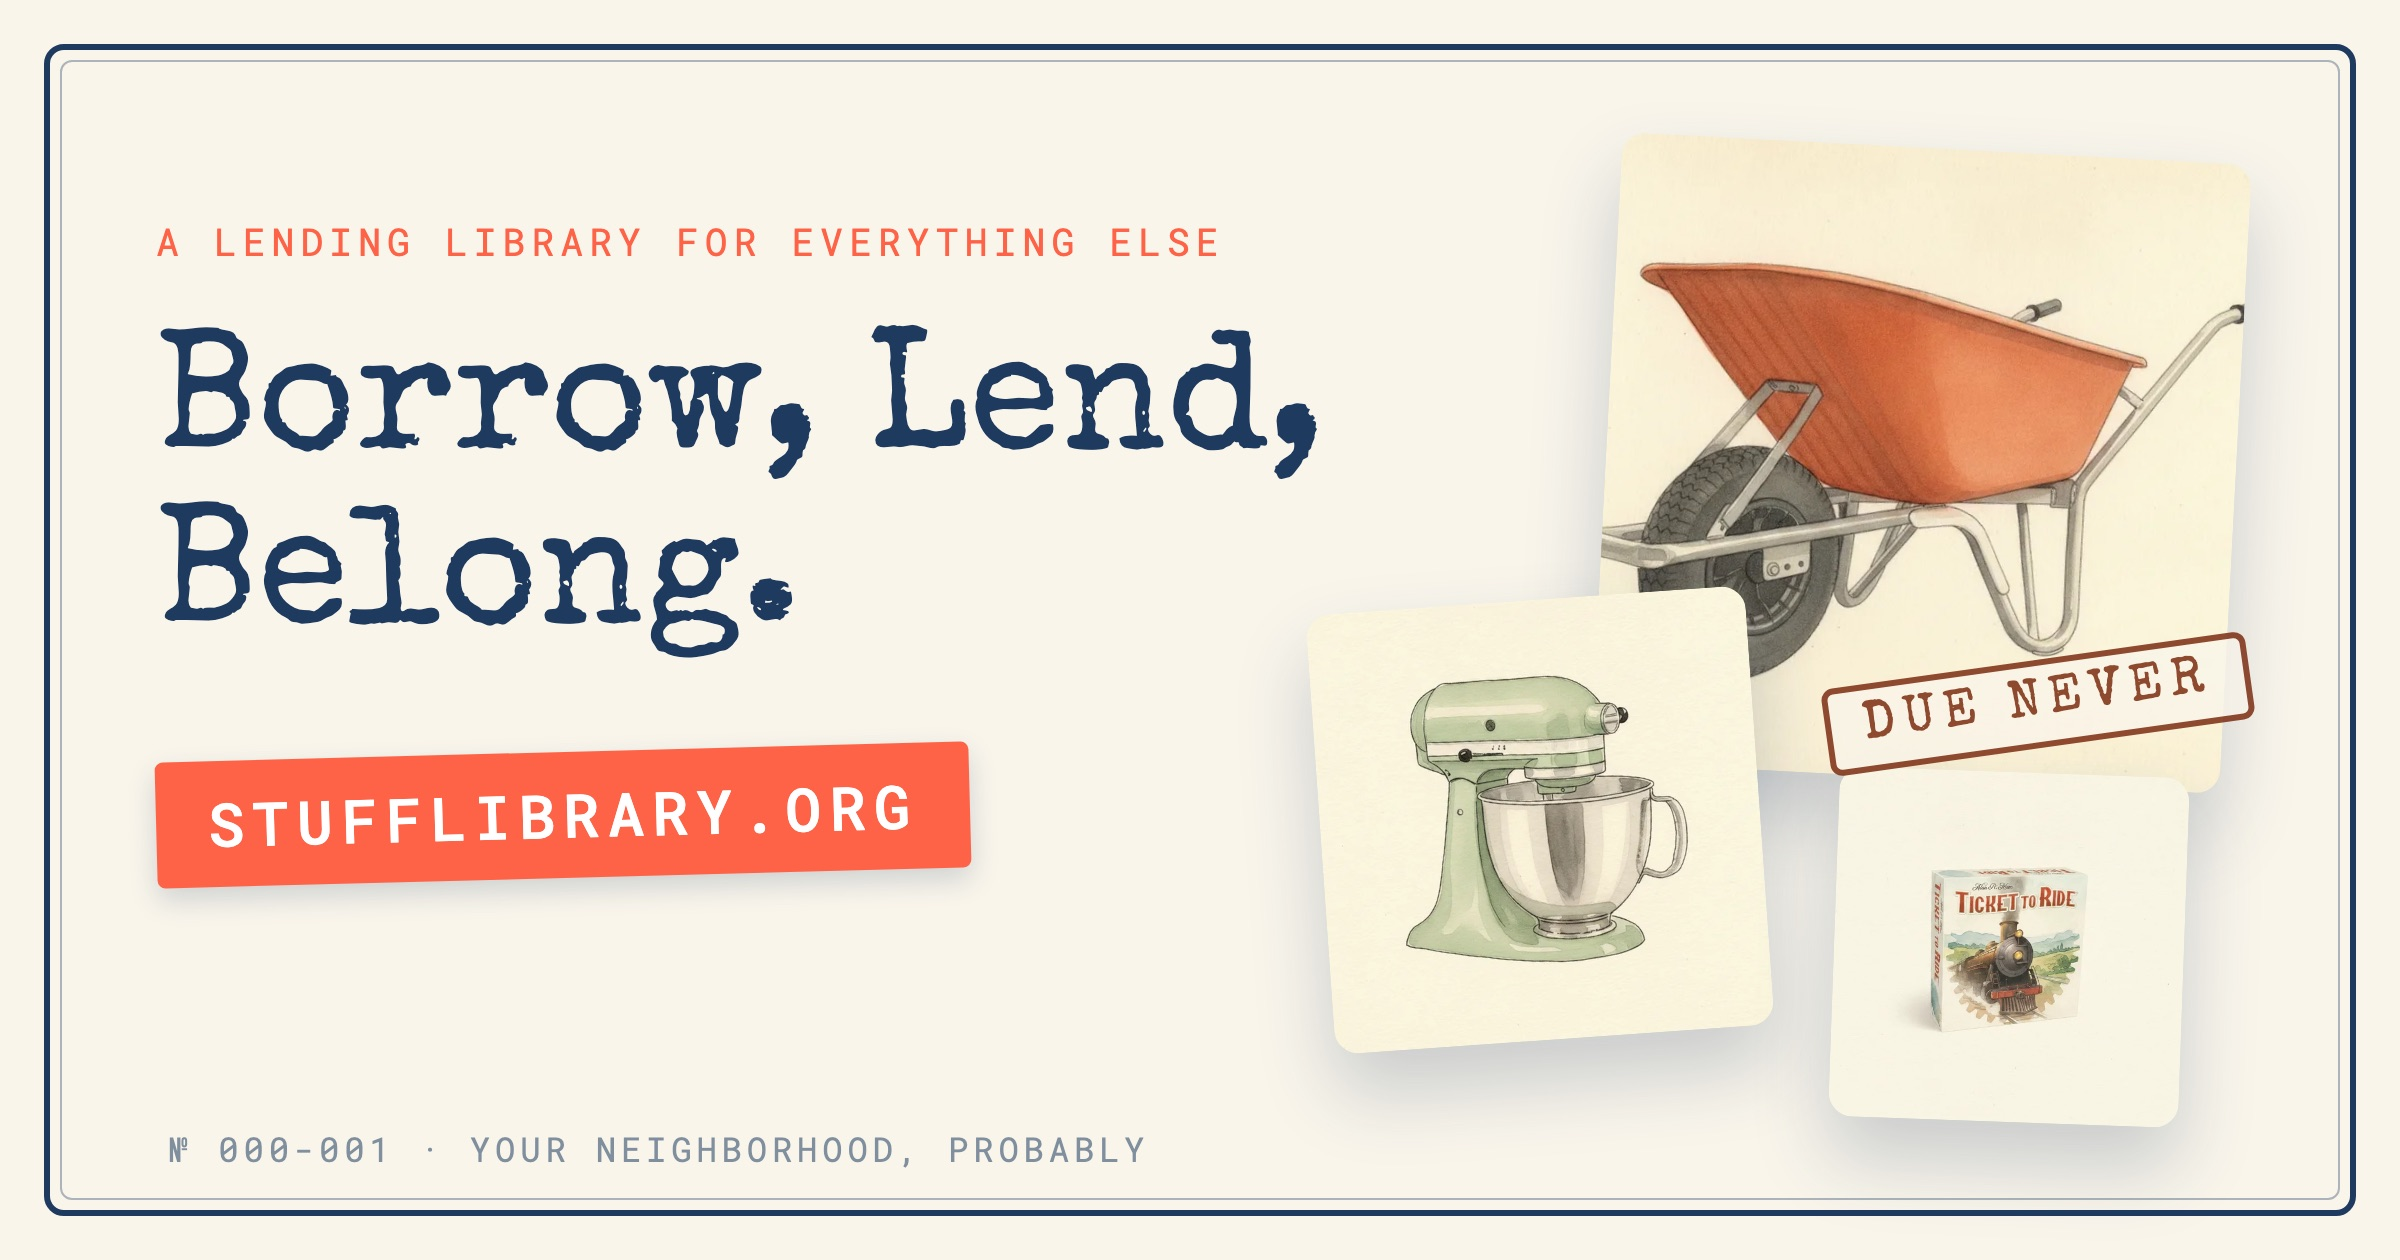
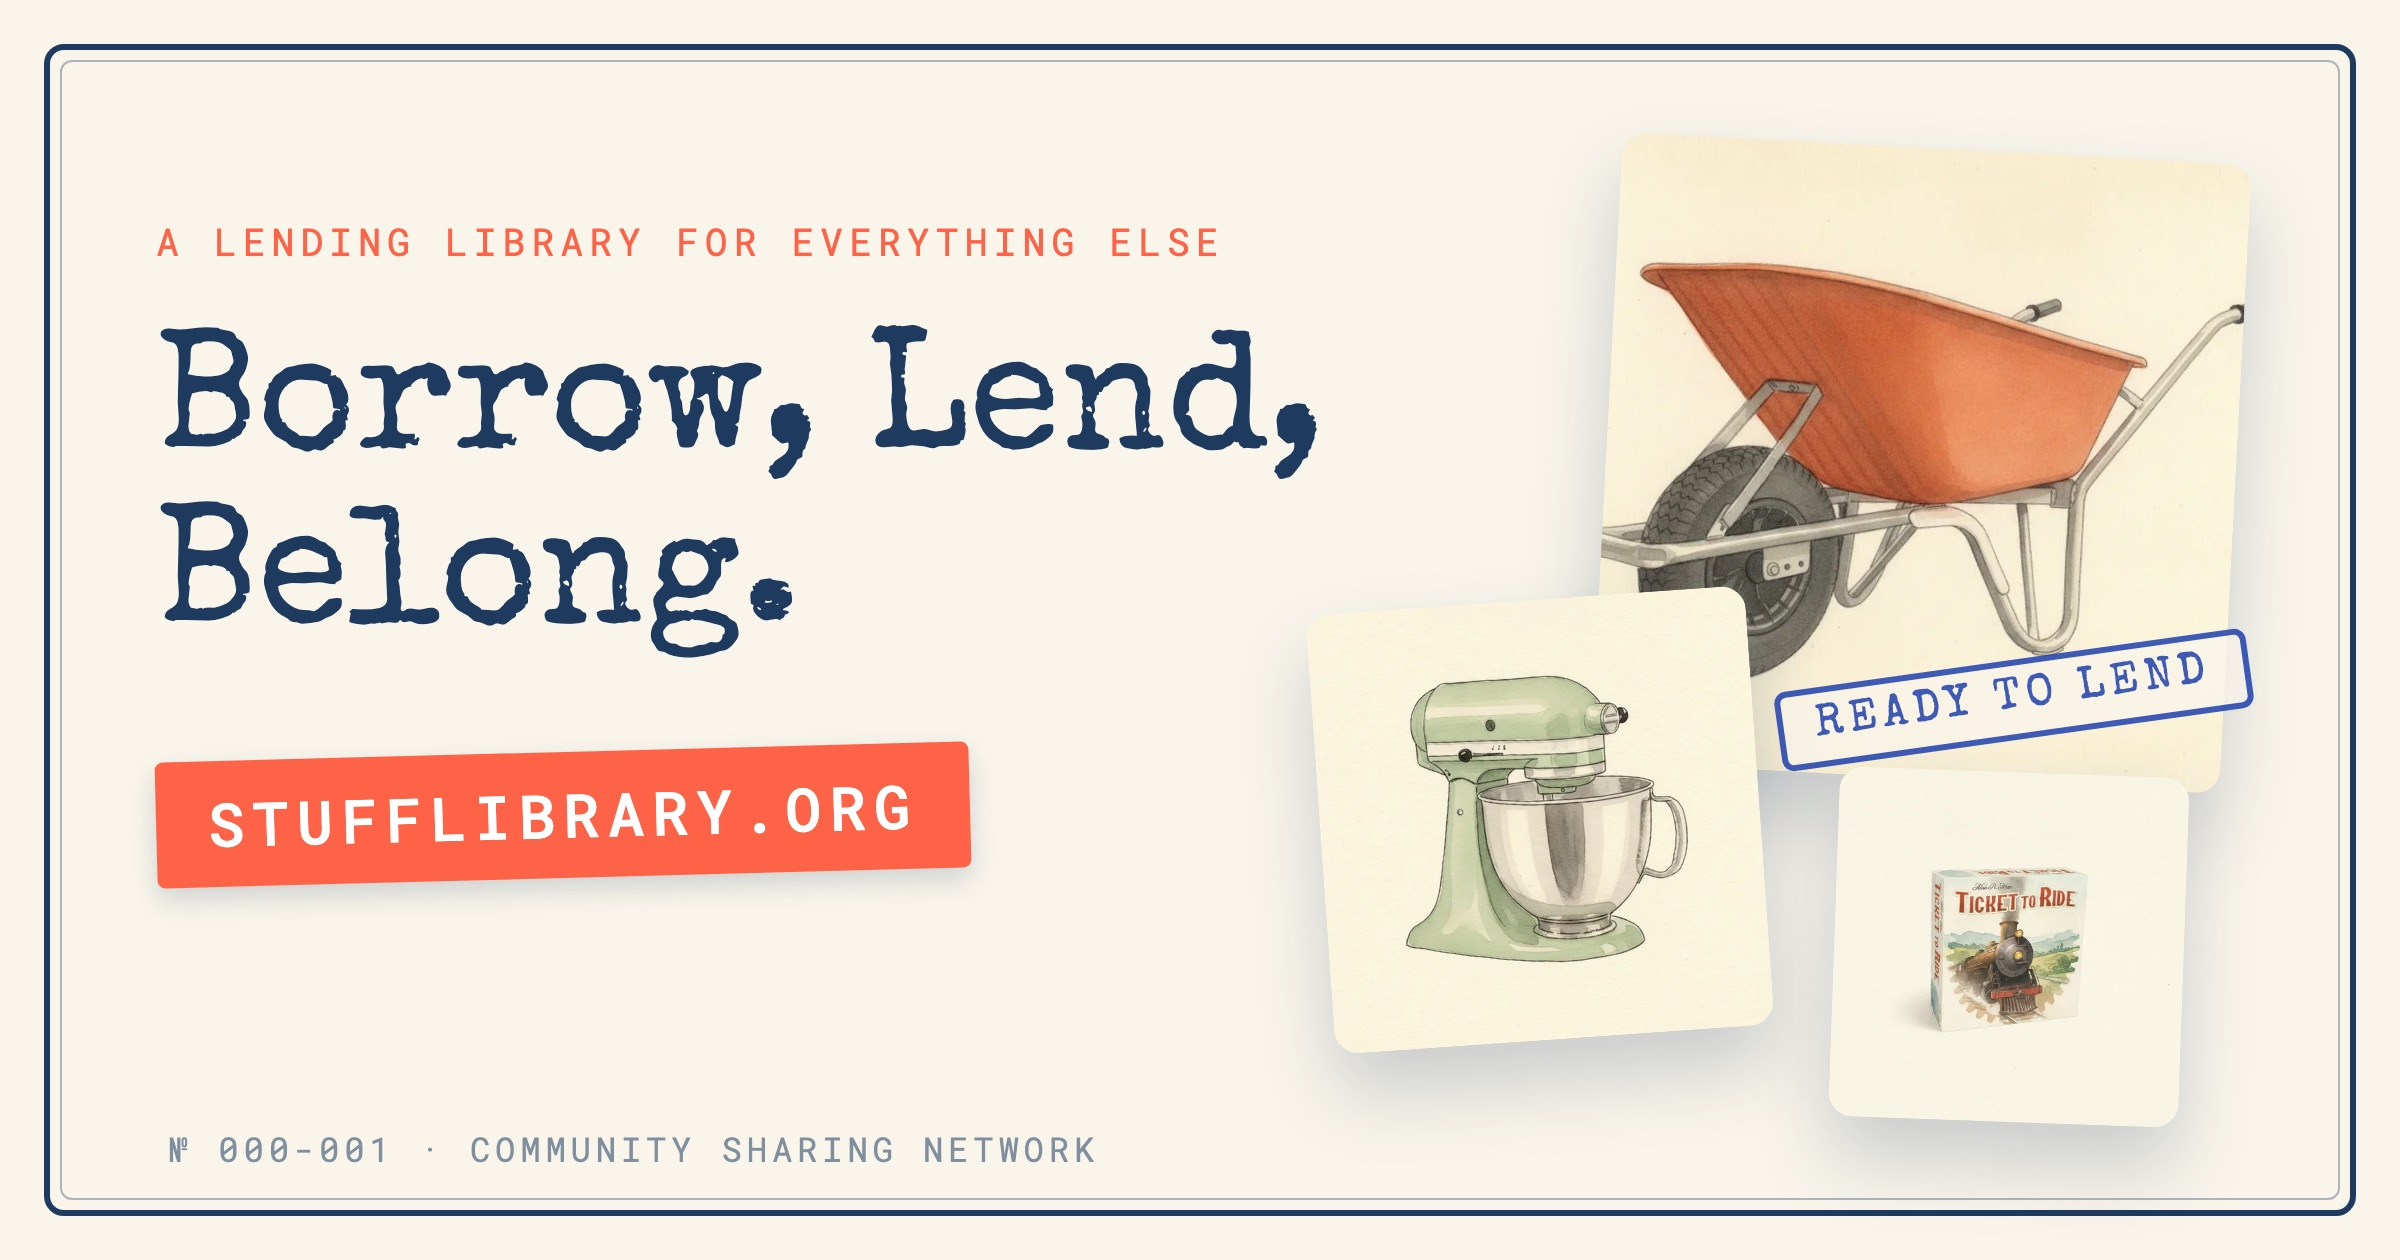
fix(seo): share card speaks in the fiction, not about it
"DUE NEVER" and "YOUR NEIGHBORHOOD, PROBABLY" were wry *about* the
library-card fiction — winking at the reader — where the brand is wry
*inside* it, artifact played straight. Worse, "due never" is a gifting
joke on a lending platform: it argued against our own differentiator.
Now: the READY TO LEND stamp in the product's blue ink, and the card's
authentic "№ 000-001 · COMMUNITY SHARING NETWORK" footer.

Why: Marc, sliding off toward sleep, caught both lines as "a real
break from our brand voice" — he was right

Changed region(s): [[0.7188, 0.4952, 0.9375, 0.619], [0.2812, 0.8976, 0.4688, 0.9286], [0.1875, 0.8976, 0.25, 0.9286]]

diff --git a/scripts/og-card.html b/scripts/og-card.html
@@ -92,10 +92,10 @@
     right: 74px;
     top: 330px;
     font-family: 'Special Elite', monospace;
-    font-size: 26px;
-    letter-spacing: 0.16em;
-    color: #7c2d12;
-    border: 3px solid #7c2d12;
+    font-size: 22px;
+    letter-spacing: 0.14em;
+    color: #1e40af;
+    border: 3px solid #1e40af;
     border-radius: 6px;
     padding: 6px 16px;
     transform: rotate(-8deg);
@@ -115,8 +115,8 @@
       <h1>Borrow, Lend, Belong.</h1>
       <div class="sticker">STUFFLIBRARY.ORG</div>
     </div>
-    <div class="stamp">DUE NEVER</div>
-    <div class="cardno">№ 000-001 · YOUR NEIGHBORHOOD, PROBABLY</div>
+    <div class="stamp">READY TO LEND</div>
+    <div class="cardno">№ 000-001 · COMMUNITY SHARING NETWORK</div>
   </div>
 </body>
 </html>